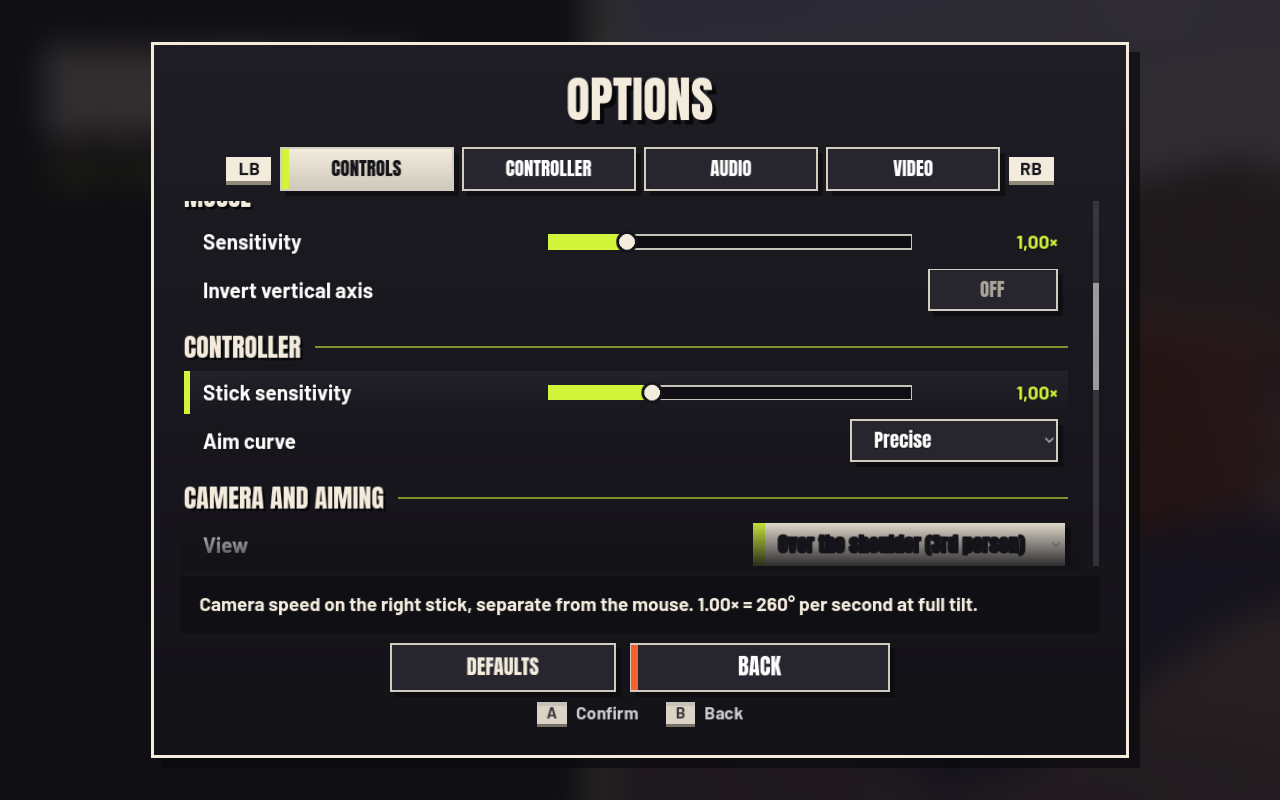
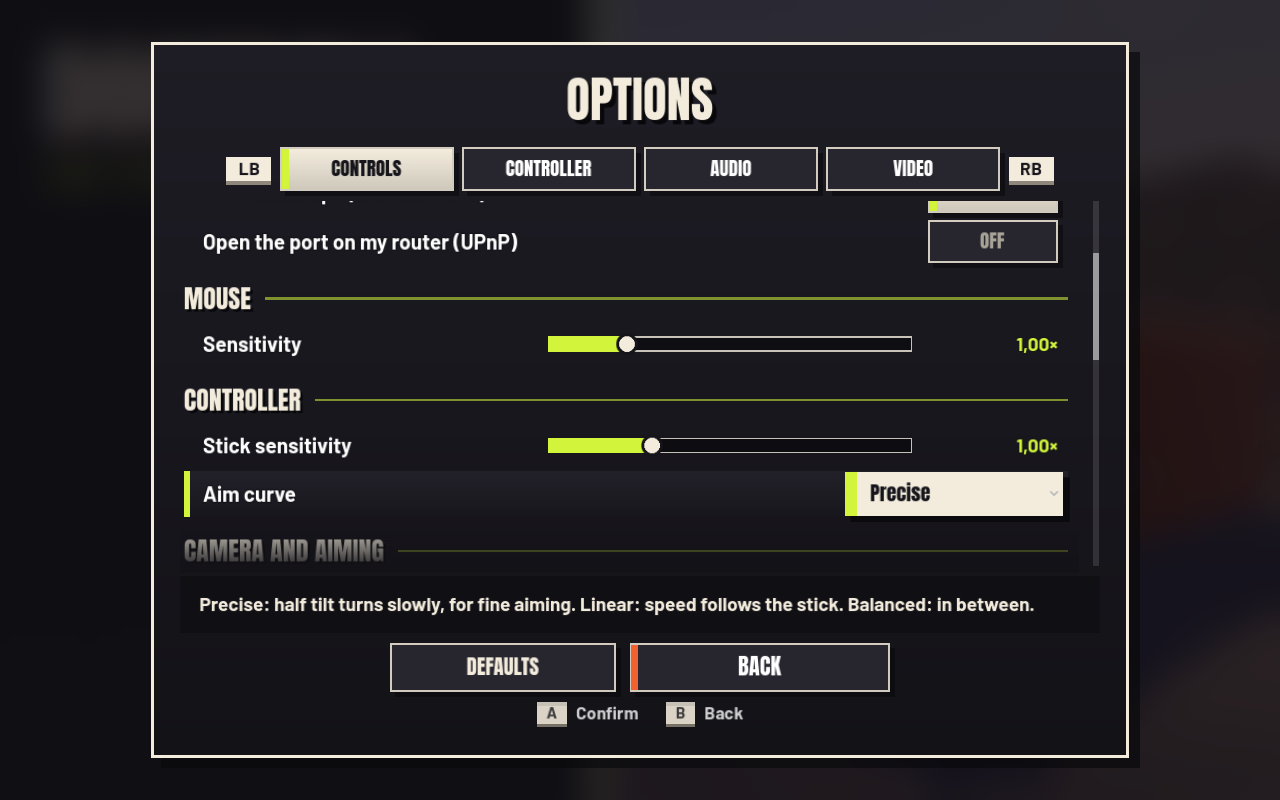
Options : « Inverser l'axe vertical » avec la caméra, curseur rangé quand on passe à la manette
- Inverser l'axe vertical passe dans « Caméra et visée » (il vaut pour la souris et le stick).
- Passage à la manette dans un menu : le curseur est rangé dans le coin, il n'allume plus un autre contrôle que le focus.
- Sensibilité du stick : sans réglage enregistré, elle reprend celle de la souris (la vitesse d'avant ne change pas).
- Liste : pas d'aller-retour de défilement quand elle est trop basse ; aide « un demi-tour en 0,7 s ».
- J4 : la ligne accessibilité redevient « partiel » (secousses et flashs sans preuve en jeu, exigences à écrire).

Claude-Session: https://claude.ai/code/session_01JqDGHfY1Ly5jn7p42vhJBj

diff --git a/scripts/UI/OptionsMenu.cs b/scripts/UI/OptionsMenu.cs
@@ -49,8 +49,8 @@ public partial class OptionsMenu : Control
         ["Aides contextuelles (premières parties)"] = "Pendant tes premières parties, rappelle la bonne touche au bon moment (attraper, esquiver, charger).",
         ["Ouvrir le port sur ma box (UPnP)"] = "Pour héberger par Internet sans Steam : demande à ta box d'ouvrir le port UDP 7777 tant que ta salle est ouverte. Le code de salle contient alors ton adresse IP publique. NON : jeu en réseau local ou par Steam seulement.",
         ["Sensibilité"] = "Vitesse de la caméra quand tu bouges la souris. 1,00× = réglage d'origine.",
-        ["Inverser l'axe vertical"] = "Pousser la souris ou le stick droit vers l'avant fait regarder vers le bas, comme un manche d'avion.",
-        ["Sensibilité du stick"] = "Vitesse de la caméra au stick droit, indépendante de la souris. 1,00× = 260° par seconde stick à fond.",
+        ["Inverser l'axe vertical"] = "Pousser la souris ou le stick droit vers l'avant fait regarder vers le bas, comme un manche d'avion. Vaut pour la souris et la manette.",
+        ["Sensibilité du stick"] = "Vitesse de la caméra au stick droit, indépendante de la souris. 1,00× = un demi-tour en 0,7 s, stick à fond.",
         ["Courbe de visée"] = "Précise : le stick à moitié tourne lentement, pour viser fin. Directe : la vitesse suit le stick. Équilibrée : entre les deux.",
         ["Champ de vision"] = "Angle de vue horizontal. Plus large : tu vois mieux autour de toi, mais tout paraît plus loin.",
         ["Aide à la visée"] = "Balle en main, la visée ralentit sur un adversaire et ton lancer s'infléchit vers lui. 0 % : aucune aide.",
@@ -201,8 +201,9 @@ public partial class OptionsMenu : Control
         float top = row.GetGlobalRect().Position.Y - scroll.GetGlobalRect().Position.Y;
         float bottom = top + row.Size.Y;
         float view = scroll.Size.Y;
-        if (bottom > view - Margin) scroll.ScrollVertical += (int)Mathf.Ceil(bottom - (view - Margin));
-        else if (top < Margin && scroll.ScrollVertical > 0) scroll.ScrollVertical -= (int)Mathf.Ceil(Margin - top);
+        if (view < row.Size.Y + 2 * Margin) return;   // liste trop basse (interface « Très grande ») : le suivi de focus suffit, pas d'aller-retour
+        if (bottom > view - Margin) scroll.ScrollVertical += (int)Mathf.Ceil(bottom - (view - Margin));   // fondu « encore des réglages » en bas
+        else if (top < 0 && scroll.ScrollVertical > 0) scroll.ScrollVertical -= (int)Mathf.Ceil(-top);
     }
 
     /// <summary>Ligne allumée : celle sous la souris (dans la zone visible), sinon celle qui contient le focus clavier.</summary>
@@ -328,12 +329,12 @@ public partial class OptionsMenu : Control
                 Toggle("Ouvrir le port sur ma box (UPnP)", GameSettings.Upnp, v => GameSettings.Upnp = v);
                 Section("Souris");
                 Slider("Sensibilité", GameSettings.Sensitivity / GameSettings.DefaultSensitivity, 0.25f, 4f, 0.05f, v => GameSettings.Sensitivity = v * GameSettings.DefaultSensitivity, v => $"{v.ToString("0.00", System.Globalization.CultureInfo.GetCultureInfo("fr-FR"))}×");
-                Toggle("Inverser l'axe vertical", GameSettings.InvertY, v => GameSettings.InvertY = v);
                 Section("Manette");
                 Slider("Sensibilité du stick", GameSettings.PadSensitivity, 0.25f, 3f, 0.05f, v => GameSettings.PadSensitivity = v, v => $"{v.ToString("0.00", System.Globalization.CultureInfo.GetCultureInfo("fr-FR"))}×");
                 Choice("Courbe de visée", new[] { "Précise", "Équilibrée", "Directe" }, GameSettings.PadCurve, k => GameSettings.PadCurve = k);
                 Section("Caméra et visée");
                 Choice("Vue", new[] { "Épaule (3e personne)", "Première personne" }, GameSettings.FirstPerson ? 1 : 0, k => GameSettings.FirstPerson = k == 1);
+                Toggle("Inverser l'axe vertical", GameSettings.InvertY, v => GameSettings.InvertY = v);
                 Slider("Champ de vision", GameSettings.Fov, 80f, 120f, 1f, v => GameSettings.Fov = v, v => $"{v:0}°");
                 Slider("Aide à la visée", GameSettings.AimAssist, 0f, 1f, 0.05f, v => GameSettings.AimAssist = v, v => v < 0.01f ? "Désactivée" : L.F("{0:0} %", v * 100));
                 Slider("Secousses de l'écran", GameSettings.ScreenShake, 0f, 1f, 0.05f, v => GameSettings.ScreenShake = v, v => v < 0.01f ? "Aucune" : L.F("{0:0} %", v * 100));

diff --git a/scripts/UI/InputSetup.cs b/scripts/UI/InputSetup.cs
@@ -205,7 +205,13 @@ public static class InputSetup
 
     public static void Track(InputEvent e)
     {
-        if (e is InputEventJoypadButton { Pressed: true } || e is InputEventJoypadMotion jm && Mathf.Abs(jm.AxisValue) > 0.5f) UsingPad = true;
+        if (e is InputEventJoypadButton { Pressed: true } || e is InputEventJoypadMotion jm && Mathf.Abs(jm.AxisValue) > 0.5f)
+        {
+            // Passage à la manette dans un menu : le curseur est rangé dans le coin, sinon il laisse allumé (survol) un autre
+            // contrôle que celui du focus.
+            if (!UsingPad && Input.MouseMode == Input.MouseModeEnum.Visible) Input.WarpMouse(Vector2.Zero);
+            UsingPad = true;
+        }
         // Sur Steam Deck, le pavé tactile et l'écran envoient des mouvements de souris : seuls un clic ou une touche repassent
         // les aides au clavier.
         else if (e is InputEventKey { Pressed: true } || e is InputEventMouseButton { Pressed: true }

diff --git a/scripts/UI/GameSettings.cs b/scripts/UI/GameSettings.cs
@@ -79,7 +79,9 @@ public static class GameSettings
         if (!hasSettings) return;   // premier lancement
         Sensitivity = Mathf.Clamp(F(cfg, "pc", "sensitivity", Sensitivity), 0.0005f, 0.01f);
         InvertY = B(cfg, "controls", "invert_y", InvertY);
-        PadSensitivity = Mathf.Clamp(F(cfg, "pad", "sensitivity", PadSensitivity), 0.25f, 3f);
+        // Avant ce réglage, le stick suivait la sensibilité de la souris : sans clé [pad], on garde la vitesse que le joueur avait.
+        float legacy = cfg.HasSectionKey("pad", "sensitivity") ? PadSensitivity : Sensitivity / DefaultSensitivity;
+        PadSensitivity = Mathf.Clamp(F(cfg, "pad", "sensitivity", legacy), 0.25f, 3f);
         PadCurve = Mathf.Clamp((int)F(cfg, "pad", "curve", PadCurve), 0, 2);
         Fov = Mathf.Clamp(F(cfg, "controls", "fov", Fov), 80f, 120f);
         AimAssist = Mathf.Clamp(F(cfg, "controls", "aim_assist", AimAssist), 0f, 1f);

diff --git a/production/milestones/j4-finition.md b/production/milestones/j4-finition.md
@@ -16,7 +16,7 @@ accessibilité, Steam Deck et correction de tous les bugs remontés par les test
 
 - [ ] 60 i/s stables sur la configuration minimale annoncée, 60 i/s sur Steam Deck (réglage Deck)
 - [ ] Aucun bug S1 ou S2 ouvert
-- [x] Accessibilité : sous-titres, daltonisme (couleurs d'équipe + motifs), réduction des secousses — sons importants à l'écran avec leur direction (le jeu n'a pas de voix), symboles d'équipe, secousses de 0 à 100 %, flashs réduits ; vérifié en jeu (`production/qa/evidence/accessibilite/`), PR #34
+- [ ] Accessibilité : sous-titres, daltonisme (couleurs d'équipe + motifs), réduction des secousses — **partiel** : sons importants à l'écran avec leur direction (le jeu n'a pas de voix) et symboles d'équipe vus en jeu (`production/qa/evidence/accessibilite/`) ; secousses réglables de 0 à 100 % et flashs réduits présents mais sans preuve en jeu ; manquent `design/accessibility-requirements.md`, des symboles plus grands au Deck et des flèches de sons qui ne ressemblent pas au symbole d'équipe
 - [x] Animations du mannequin (UAL) : course, saut, lancer, attrape, esquive, chute — plus marche, recul et réception (`tools/blender/mannequin.py`, `--avatar-test` en CI), PR #34
 - [ ] All S1 and S2 bugs resolved
 - [ ] Performance within budget on target hardware
@@ -30,14 +30,14 @@ accessibilité, Steam Deck et correction de tous les bugs remontés par les test
 |---------|-----------|-------|--------------|--------|
 | Passe de performance | `docs/architecture/` | performance-analyst | S1 | À faire |
 | Animations des personnages | `design/art/` | technical-artist | S1 | Mannequin UAL choisi |
-| Accessibilité de base | `design/accessibility-requirements.md` | accessibility-specialist | S2 | À faire |
+| Accessibilité de base | `design/accessibility-requirements.md` | accessibility-specialist | S2 | Partiel (options en place, exigences à écrire) |
 | Correction des bugs des testeurs | — | qa-lead | S2 | À faire |
 
 ### Should Ship (Planned but Cuttable)
 
 | Feature | Design Doc | Owner | Sprint Target | Cut Impact | Status |
 |---------|-----------|-------|--------------|-----------|--------|
-| Vérification Steam Deck | `docs/steam/` | qa-tester | S2 | Pas de badge Deck | À faire |
+| Vérification Steam Deck | `docs/steam/` | qa-tester | S2 | Pas de badge Deck | Simulée en 1280×800 (PR #34), vrai Deck à faire |
 
 ### Stretch Goals (Only if Ahead of Schedule)
 
